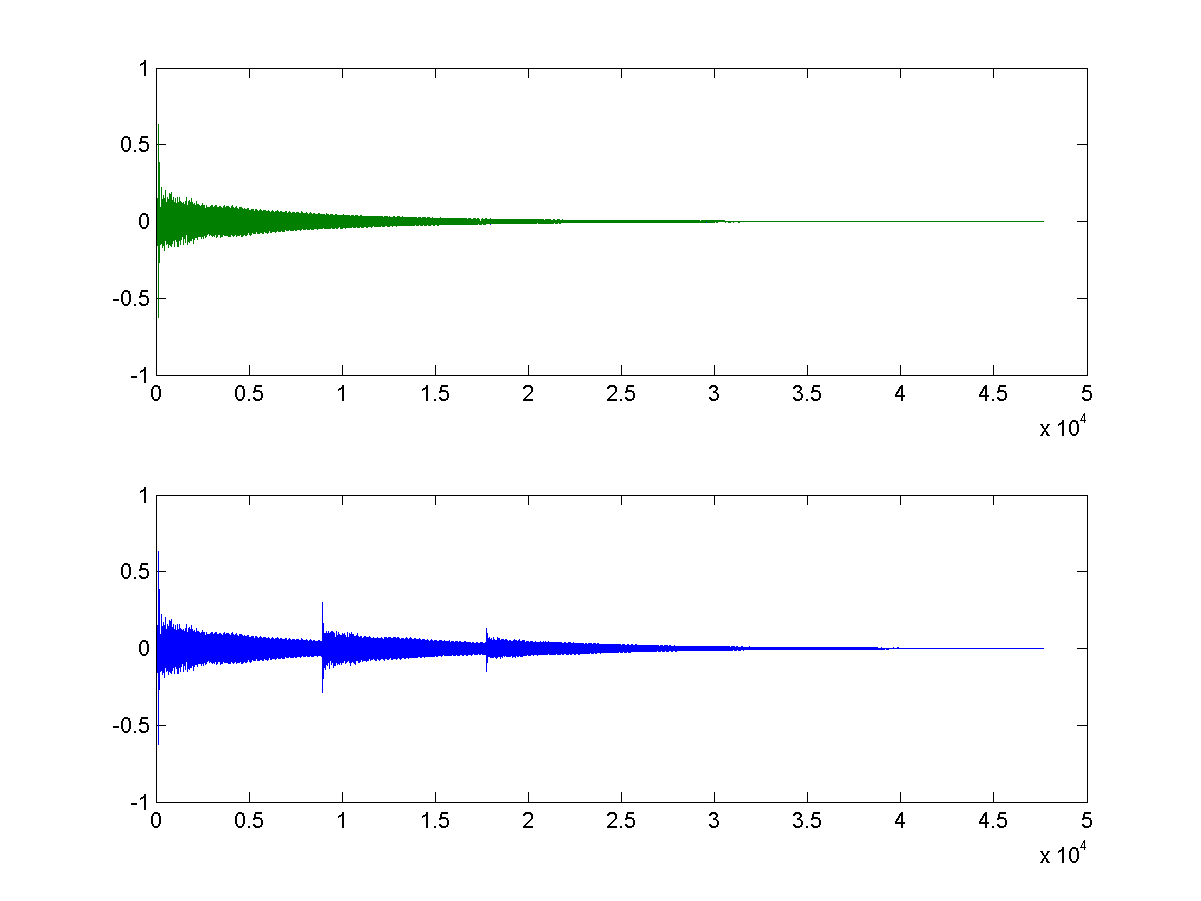
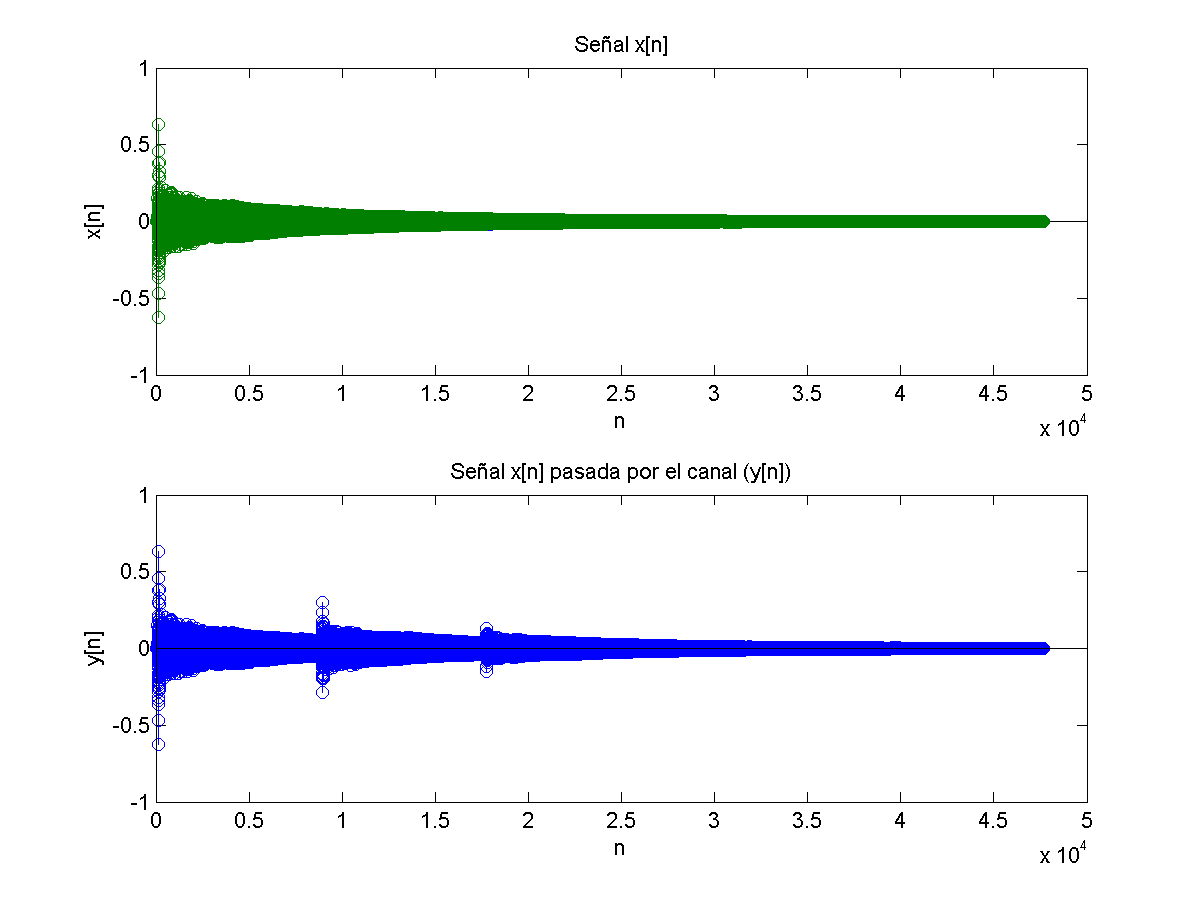
asd

diff --git a/punto 2/punto2_4.m b/punto 2/punto2_4.m
@@ -4,30 +4,24 @@ addpath(fullfile(scriptDir, '..', 'funciones'));
 addpath(fullfile(scriptDir, '..', 'punto 2\sistemas'));
 
 [x, fs] = audioread('audio.wav');
-subplot(4,1,1);
-%plot(x);
-%sound(x,fs);
+
 N = length(x);
 
 delta = [1 zeros(1,N)]
-
-y = sistema2(delta);
-
-%sound(y, fs);
-%subplot(3,1,2);
-plot(y);
-
-y1 = filtro1(y);
-%sound(y1, fs);
-subplot(4,1,2);
-plot(y1);
+y = sistema2(delta)
 
 y2 = filtro2(y);
-%sound(y2, fs);
-subplot(4,1,3);
-plot(y2);
+subplot(2,1,1);
+stem(y2);
+ylabel('Salida');
+xlabel('n');
+title('Respuesta impulsional de filtro de 2 ramas + canal');
 
 y3 = filtro3(y);
-sound(y3, fs);
-subplot(4,1,4);
-plot(y3);
+subplot(2,1,2);
+stem(y3);
+ylabel('Salida');
+xlabel('n');
+title('Respuesta impulsional de filtro de 3 ramas + canal');
+
+print -f1 -dpng ejer2_4
